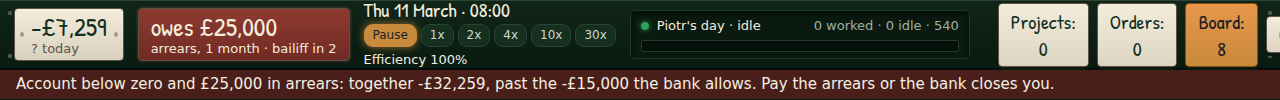
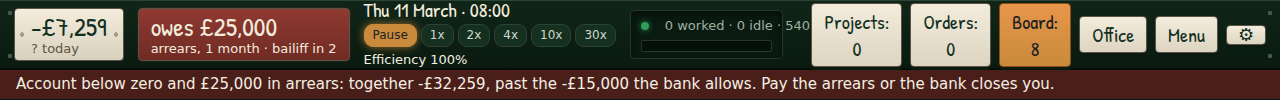
T21-C4 The fourth thing the pictures showed: the top bar fell off the page while the tile was up
The look and shoot found three things and fixed them; this is the fourth, found by the lead looking
at picture 1 after it was taken.

The owes plate of 2.1 is 212 px of top bar that was not there before, and `.day-meter` carried
`min-width: 340px`, which a flex row cannot shrink past. So at 1280, with a company in arrears, the
bar came to 1,452 px and the Office button, the Menu button and the gear were off the right edge of
the page: three controls the player could not reach, in the one state of the game that most needs
him to reach them. The meter is now `flex: 0 1 340px` with `min-width: 0`, so it takes 340 px where
there is room and gives way where there is not. Nothing else in the bar can give: the speed knobs,
the date and the push buttons are all their own text wide.

What that costs, and it is written here so Piotr can weigh it: while the tile is up the meter is
154 px and its prose line ("Piotr's day, idle") is ellipsed away, leaving the lamp, the three figures
of 2.8 and the bar itself. The figures are what this turn added and the prose is also on the Our team
page. With no arrears the meter is 340 px and exactly what it was, which is picture 6.

Pictures 1 and 6 re-shot on the fixed bar.

npm run check: exit 0, 208 files, 2027 tests.

Claude-Session: https://claude.ai/code/session_01Ewjc3Yx8JT91fjZ5tCuSzc

Changed region(s): [[0.5, 0.03, 1.0, 0.69]]

diff --git a/src/ui/styles.css b/src/ui/styles.css
@@ -675,10 +675,16 @@ input.num {
   border-radius: 5px;
   box-shadow: inset 0 2px 6px rgba(0, 0, 0, 0.6);
   display: flex;
+  /* 340 px is the width it wants and it never takes more, but from Turn 21 it may be given less:
+     the owes plate of 2.1 is 212 px of bar that was not there before, and a hard minimum here put
+     the Office and Menu buttons off the right edge of a 1280 page while a company was in arrears.
+     A meter that is a bar and two short lines can be read narrower; a button that is off the page
+     cannot be pressed at all (CLAUDE.md T21 2.1, 2.8). */
+  flex: 0 1 340px;
   flex-direction: column;
   gap: 5px;
   justify-content: center;
-  min-width: 340px;
+  min-width: 0;
   padding: 6px 10px;
   position: relative;
 }
